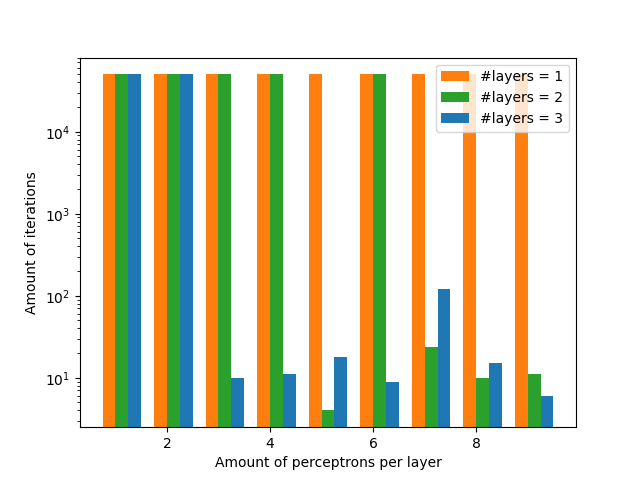
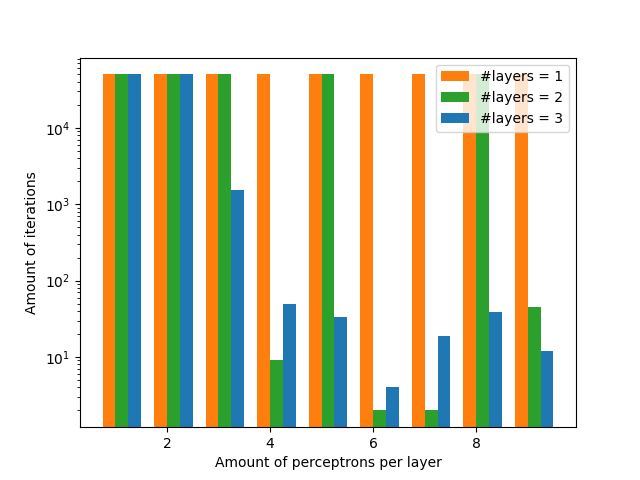
fix: seed for random numbers and new graphs

diff --git a/tp3/ej3/ej3.a.py b/tp3/ej3/ej3.a.py
@@ -24,23 +24,25 @@ if __name__ == '__main__':
         for i in range(3):
             iteration = []
             for perceptrons in range(1, 10):
-                average = []
-                for count in range(7):
-                    architecture = [first]
-                    [architecture.append(perceptrons) for _ in range(i)]
-                    architecture.append(last)
-                    perceptron = MultiLayerPerceptron(
-                        architecture,
-                        points,
-                        activation_method,
-                        expected,
-                        0.0001, 0.1, update_method=update_method
-                    )
-                    perceptron.train()
-                    average.append(len(perceptron.error_by_iteration))
-                iteration.append(average)
+                # for count in range(7):
+                architecture = [first]
+                [architecture.append(perceptrons) for _ in range(i)]
+                architecture.append(last)
+                perceptron = MultiLayerPerceptron(
+                    architecture,
+                    points,
+                    activation_method,
+                    expected,
+                    0.0001, 0.1, update_method=update_method
+                )
+                perceptron.train()
+                # average.append()
+                iteration.append(len(perceptron.error_by_iteration))
             layer.append(iteration)
+        # layer = [[50001, 50001, 50001, 50001, 50001, 50001, 50001, 50001, 50001],
+        #          [50001, 50001, 285, 61, 62, 63, 64, 33, 5],
+        #          [50001, 50001, 165, 28, 6, 13, 41, 10, 45]]
+
         print("layer", layer)
         plot_perceptrons_vs_iterations(layer, save_file)
-        plot_perceptrons_vs_iterations2(layer, save_file+"2.png")
 

diff --git a/tp3/ej3/utils/graph_utils.py b/tp3/ej3/utils/graph_utils.py
@@ -79,18 +79,17 @@ def plot_perceptrons_vs_iterations(perceptrons, filename):
     colors = ['tab:orange', 'tab:green', 'tab:blue']
 
     fig, ax = plt.subplots()
-    y = []
     for i in range(num_layers):
         x = range(1, len(perceptrons[i]) + 1)
         # print(x)
         # y = np.mean(perceptrons[i])
-        y = [np.mean(perceptrons[i][j]) for j in range(len(perceptrons[i]))]
+        y = perceptrons[i]
         # print(perceptrons[i])
         # error = np.std(perceptrons[i])
-        error = [np.std(perceptrons[i][j]) for j in range(len(perceptrons[i]))]
+        # error = [np.std(perceptrons[i][j]) for j in range(len(perceptrons[i]))]
         ax.bar([xi + i * bar_width - bar_width/2 for xi in x],
                y, width=bar_width, color=colors[i],
-               label=f'#layers = {i + 1}', yerr=error)
+               label=f'#layers = {i + 1}', )
     ax.set_xlabel('Amount of perceptrons per layer')
     ax.set_ylabel('Amount of iterations')
     ax.legend()
